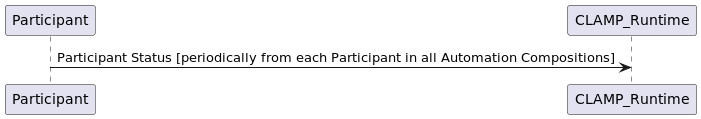
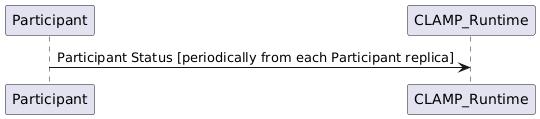
Update docs for automatic sync up support in ACM
Issue-ID: POLICY-5428

diff --git a/docs/clamp/acm/clamp-csit.rst b/docs/clamp/acm/clamp-csit.rst
@@ -33,6 +33,18 @@ ACM Integration Tests
 +--------------------------------------------------+--------------------------------------------------------------------------------------------------------+------------------------------------------------------------------------------------------------------------------------+
 | RegisterParticipants                             | Sends a PUT request to ACM-R to request the participants for registration                              | Should receive a 202 Accepted response from ACM-R                                                                      |
 +--------------------------------------------------+--------------------------------------------------------------------------------------------------------+------------------------------------------------------------------------------------------------------------------------+
+| InsertDataIntoDatabase                           | Insert restored data into the Database                                                                 | Should receive a 0 response from the script                                                                            |
++--------------------------------------------------+--------------------------------------------------------------------------------------------------------+------------------------------------------------------------------------------------------------------------------------+
+| AcMigrationRestored                              | Migration of an automation composition restored                                                        | Should receive a 200 response and the AC instance should be migrated to to the target AC definition                    |
++--------------------------------------------------+--------------------------------------------------------------------------------------------------------+------------------------------------------------------------------------------------------------------------------------+
+| UpdateDataDatabase                               | Update restored data into the Database                                                                 | Should receive a 0 response from the script                                                                            |
++--------------------------------------------------+--------------------------------------------------------------------------------------------------------+------------------------------------------------------------------------------------------------------------------------+
+| ReviewAutomationCompositionRestored              | Review automation composition restored                                                                 | Should receive a 202 Accepted response and the substate should be present in the AC instance data                      |
++--------------------------------------------------+--------------------------------------------------------------------------------------------------------+------------------------------------------------------------------------------------------------------------------------+
+| AcDeleteRestored                                 | Undeploy and delete of an automation composition restored                                              | Should receive a 202 Accepted response and the restored AC instance should have been deleted in ACM-R                  |
++--------------------------------------------------+--------------------------------------------------------------------------------------------------------+------------------------------------------------------------------------------------------------------------------------+
+| DeleteACDefinitionsRestored                      | Deprime and delete of the compositions definition restored                                             | Should receive a 200 response and the AC definition should be removed in ACM-R db                                      |
++--------------------------------------------------+--------------------------------------------------------------------------------------------------------+------------------------------------------------------------------------------------------------------------------------+
 | CommissionAcDefinitionTimeout                    | Commissions a service template for testing Prime Timeout                                               | Should receive a 201 created response from ACM_R                                                                       |
 +--------------------------------------------------+--------------------------------------------------------------------------------------------------------+------------------------------------------------------------------------------------------------------------------------+
 | TimeoutPrimeACDefinition                         | Verify the priming timeout from participant sim by updating the participant sim behavior               | Should receive a 202 Accepted response from ACM-R and the stateChangeResult of AC definition should be TIMEOUT         |
@@ -51,9 +63,7 @@ ACM Integration Tests
 +--------------------------------------------------+--------------------------------------------------------------------------------------------------------+------------------------------------------------------------------------------------------------------------------------+
 | UnInstantiateAutomationCompositionSimple         | Uninstantiate the simple AC instance                                                                   | Should receive a 202 Accepted response and the simple AC instance should have been deleted in ACM-R                    |
 +--------------------------------------------------+--------------------------------------------------------------------------------------------------------+------------------------------------------------------------------------------------------------------------------------+
-| DePrimeACDefinitionSimple                        | Deprime the simple AC definition from the participants                                                 | Should receive a 202 Accepted response and the simple AC definition in ACM-R should be moved to COMMISSIONED state     |
-+--------------------------------------------------+--------------------------------------------------------------------------------------------------------+------------------------------------------------------------------------------------------------------------------------+
-| DeleteACDefinitionSimple                         | Delete the simple automation composition definition                                                    | Should receive a 200 response and the simple AC definition should be removed in ACM-R db                               |
+| DeleteACDefinitionSimple                         | Deprime and Delete the simple automation composition definition                                        | Should receive a 200 response and the simple AC definition should be removed in ACM-R db                               |
 +--------------------------------------------------+--------------------------------------------------------------------------------------------------------+------------------------------------------------------------------------------------------------------------------------+
 | CommissionAutomationComposition                  | Commissions a Tosca service template to ACM-R                                                          | Should receive a 201 created response from ACM_R                                                                       |
 +--------------------------------------------------+--------------------------------------------------------------------------------------------------------+------------------------------------------------------------------------------------------------------------------------+
@@ -115,29 +125,35 @@ ACM Integration Tests
 +--------------------------------------------------+--------------------------------------------------------------------------------------------------------+------------------------------------------------------------------------------------------------------------------------+
 | FailAutomationCompositionMigration               | Verify the Migration failure for AC instance by updating the participant sim behavior                  | Should receive a 202 Accepted response from ACM-R and the stateChangeResult of AC instance should be FAILED            |
 +--------------------------------------------------+--------------------------------------------------------------------------------------------------------+------------------------------------------------------------------------------------------------------------------------+
-| FailDePrimeACDefinitionsFrom                     | Verify the failure of deprime in migration AC definition by updating the participant sim to fail       | Should receive a 202 Accepted response and the migration AC definition in ACM-R should have stateChangeResult FAILED   |
-+--------------------------------------------------+--------------------------------------------------------------------------------------------------------+------------------------------------------------------------------------------------------------------------------------+
-| DePrimeACDefinitionsFrom                         | Deprime the migration AC definition from the participants                                              | Should receive a 202 Accepted response and the migration AC definition in ACM-R should be moved to COMMISSIONED state  |
-+--------------------------------------------------+--------------------------------------------------------------------------------------------------------+------------------------------------------------------------------------------------------------------------------------+
-| UnDeployAutomationComposition                    | Undeploy the AC instance                                                                               | Should receive a 202 Accepted response and the AC instance in ACM-R should have the UNDEPLOYED status                  |
+| UnInstantiateAutomationComposition               | Undeploy and Uninstantiate the AC instance                                                             | Should receive a 202 Accepted response and the AC instance should have been deleted in ACM-R                           |
 +--------------------------------------------------+--------------------------------------------------------------------------------------------------------+------------------------------------------------------------------------------------------------------------------------+
 | FailUnDeployAutomationCompositionMigrationTo     | Verify the failure of undeploy in migration AC instance by updating the participant sim to fail        | Should receive a 202 Accepted response and the stateChangeResult of the instance in ACM-R should be FAILED             |
 +--------------------------------------------------+--------------------------------------------------------------------------------------------------------+------------------------------------------------------------------------------------------------------------------------+
 | UnDeployAutomationCompositionMigrationTo         | Undeploy the migration AC instance by updating the participant sim to success                          | Should receive a 202 Accepted response and the deploy state of the migration AC instance should be UNDEPLOYED          |
 +--------------------------------------------------+--------------------------------------------------------------------------------------------------------+------------------------------------------------------------------------------------------------------------------------+
-| UnInstantiateAutomationComposition               | Uninstantiate the AC instance                                                                          | Should receive a 202 Accepted response and the AC instance should have been deleted in ACM-R                           |
-+--------------------------------------------------+--------------------------------------------------------------------------------------------------------+------------------------------------------------------------------------------------------------------------------------+
 | FailUnInstantiateACMigrationTo                   | Verify the uninstantiate failure in migration AC instance after updating the participant sim to fail   | Should receive a 202 Accepted response, and the AC instance stateChangeResult should be FAILED in ACM-R                |
 +--------------------------------------------------+--------------------------------------------------------------------------------------------------------+------------------------------------------------------------------------------------------------------------------------+
 | UnInstantiateAutomationCompositionMigrationTo    | Uninstantiate the migration AC instance                                                                | Should receive a 202 Accepted response and the migration AC instance should have been deleted in ACM-R                 |
 +--------------------------------------------------+--------------------------------------------------------------------------------------------------------+------------------------------------------------------------------------------------------------------------------------+
-| DePrimeACDefinitions                             | Deprime the AC definition                                                                              | Should receive a 202 Accepted response and the the AC definition in ACM-R should be moved to COMMISSIONED state        |
+| InstantiateAutomationCompositionRollback         | Instantiate the Automation Composition for rollback test                                               | Should receive a 201 Accepted response from ACM-R                                                                      |
 +--------------------------------------------------+--------------------------------------------------------------------------------------------------------+------------------------------------------------------------------------------------------------------------------------+
-| DePrimeACDefinitionsTo                           | Deprime the migration target AC definition from the participants                                       | Should receive a 202 Accepted response and the target AC definition in ACM-R should be moved to COMMISSIONED state     |
+| DeployAutomationCompositionRollback              | Deploy the AC instance for rollback test                                                               | Should receive a 202 Accepted status and the deploy state should be DEPLOYED in ACM-R                                  |
 +--------------------------------------------------+--------------------------------------------------------------------------------------------------------+------------------------------------------------------------------------------------------------------------------------+
-| DeleteACDefinition                               | Delete automation composition definition                                                               | Should receive a 200 response and the AC definition should be removed in ACM-R db                                      |
+| FailAutomationCompositionMigrationRollback       | Verify the Migration failure for AC instance by updating the participant sim behavior                  | Should receive a 202 Accepted response from ACM-R and the stateChangeResult of AC instance should be FAILED            |
 +--------------------------------------------------+--------------------------------------------------------------------------------------------------------+------------------------------------------------------------------------------------------------------------------------+
-| DeleteACDefinitionFrom                           | Delete the migration automation composition definition                                                 | Should receive a 200 response and the migration AC definition should be removed in ACM-R db                            |
+| RollbackAutomationComposition                    | Rollback the AC instance                                                                               | Should receive a 200 response and the AC instance should be Rolled back to to the original AC definition               |
 +--------------------------------------------------+--------------------------------------------------------------------------------------------------------+------------------------------------------------------------------------------------------------------------------------+
-| DeleteACDefinitionTo                             | Delete the target automation composition definition                                                    | Should receive a 200 response and the target AC definition should be removed in ACM-R db                               |
+| FailAutomationCompositionMigrationRollback2      | Verify the Migration failure for AC instance by updating the participant sim behavior                  | Should receive a 202 Accepted response from ACM-R and the stateChangeResult of AC instance should be FAILED            |
++--------------------------------------------------+--------------------------------------------------------------------------------------------------------+------------------------------------------------------------------------------------------------------------------------+
+| FailRollbackAutomationComposition                | Verify the Rollback failure for AC instance by updating the participant sim behavior                   | Should receive a 202 Accepted response from ACM-R and the stateChangeResult of AC instance should be FAILED            |
++--------------------------------------------------+--------------------------------------------------------------------------------------------------------+------------------------------------------------------------------------------------------------------------------------+
+| UnInstantiateAutomationCompositionRollback       | Uninstantiate the AC instance                                                                          | Should receive a 202 Accepted response and the AC instance should have been deleted in ACM-R                           |
++--------------------------------------------------+--------------------------------------------------------------------------------------------------------+------------------------------------------------------------------------------------------------------------------------+
+| FailDePrimeACDefinitionsFrom                     | Verify the failure of deprime in migration AC definition by updating the participant sim to fail       | Should receive a 202 Accepted response and the migration AC definition in ACM-R should have stateChangeResult FAILED   |
++--------------------------------------------------+--------------------------------------------------------------------------------------------------------+------------------------------------------------------------------------------------------------------------------------+
+| DeleteACDefinitionFrom                           | Deprime and Delete the migration automation composition definition                                     | Should receive a 200 response and the migration AC definition should be removed in ACM-R db                            |
++--------------------------------------------------+--------------------------------------------------------------------------------------------------------+------------------------------------------------------------------------------------------------------------------------+
+| DeleteACDefinitions                              | Deprime and Delete automation composition definition                                                   | Should receive a 200 response and the AC definition should be removed in ACM-R db                                      |
++--------------------------------------------------+--------------------------------------------------------------------------------------------------------+------------------------------------------------------------------------------------------------------------------------+
+| DeleteACDefinitionTo                             | Deprime and Delete the target automation composition definition                                        | Should receive a 200 response and the target AC definition should be removed in ACM-R db                               |
 +--------------------------------------------------+--------------------------------------------------------------------------------------------------------+------------------------------------------------------------------------------------------------------------------------+

diff --git a/docs/clamp/acm/api-protocol/acm-participant-protocol.rst b/docs/clamp/acm/api-protocol/acm-participant-protocol.rst
@@ -63,7 +63,7 @@ The ACM Runtime updates the priming information in the database.
 Automation Composition Update
 -----------------------------
 
-Automation Composition Update handles creation, change, and deletion of Automation Compositions on
+Automation Composition Update handles creation, change properties, migration, and deletion of Automation Compositions on
 participants. Change of Automation Compositions uses a semantic versioning approach and follows the
 semantics described on the page :ref:`5.1 Management of Automation Composition Instance
 Configurations <management-acm-instance-configs>`.
@@ -112,13 +112,27 @@ The flow of the DEPLOY/UNDEPLOY state change messages are shown below. But the s
 
 .. image:: ../images/acm-participants-protocol/acm-state-change-msg.png
 
+
+Participant Sync Up
+-------------------
+
+This dialogue is used to Sync Up the participant replicas with the ACM-r database.
+Acm-r stores a revision for each instance and composition which will be updated for every update (state change or outProperties change).
+This value will be sent to the participants along with the sync message.
+When ACM-r sends an operation message (as undeploy/delete), it will insert the revision of the instance and the revision of the composition,
+so the participants can compare this value with what is in the memory.
+If the instance/composition is missing or outdated, participant caches the operation, sends a sync request to ACM-r
+and the cached operation will be resumed after the sync message is received.
+
+.. image:: ../images/acm-participants-protocol/acm-sync-up.png
+
+
 Automation Composition Monitoring and Reporting
 -----------------------------------------------
 
 This dialogue is used as a heartbeat mechanism for participants, to monitor the status of
-Automation Composition Elements, and to gather statistics on Automation Compositions. The
-*ParticipantStatus* message is sent periodically by each participant. The reporting interval for
-sending the message is configurable.
+the replica of the participant. The *ParticipantStatus* message is sent periodically by each participant.
+The reporting interval for sending the message is configurable.
 
 .. image:: ../images/acm-participants-protocol/acm-monitoring.png
 

diff --git a/docs/clamp/acm/design-impl/participants/participant-intermediary.rst b/docs/clamp/acm/design-impl/participants/participant-intermediary.rst
@@ -39,6 +39,7 @@ Outbound messages
 - AUTOMATIONCOMPOSITION_STATECHANGE_ACK: is an acknowledgement sent by a participant as a response to AutomationCompositionStateChange
 - AUTOMATION_COMPOSITION_DEPLOY_ACK: is an acknowledgement sent by a participant as a response to AutomationCompositionDeploy
 - PARTICIPANT_PRIME_ACK: is an acknowledgement sent by a participant as a response to ParticipantPrime
+- PARTICIPANT_REQ_SYNC_MSG: A sync up request sent by a participant
 
 Design of a PARTICIPANT_REGISTER message
 ----------------------------------------
@@ -170,3 +171,12 @@ Design of a AUTOMATIONCOMPOSITION_STATECHANGE_ACK message
 - AutomationCompositionStateChangeAckListener in ACM-runtime collects the messages from Message Broker
 - It checks the deployStatus/lockStatus of all automation composition elements
 - It updates the AC-instance in DB accordingly
+
+Design of a PARTICIPANT_REQ_SYNC_MSG message
+--------------------------------------------
+- ACM-runtime triggers the execution to send an update message
+- Participant-intermediary validate the message
+- If there is missing or outdated instance/composition it saves in memory the operation on hold, and sends a PARTICIPANT_REQ_SYNC_MSG to ACM-runtime
+- ACM-runtime receives the PARTICIPANT_REQ_SYNC_MSG and send back a PARTICIPANT_SYNC_MSG message with updated data
+- Participant-intermediary receives the PARTICIPANT_SYNC_MSG and recheck the operations in memory
+- If all data in memory are updated Participant performs its designated job
